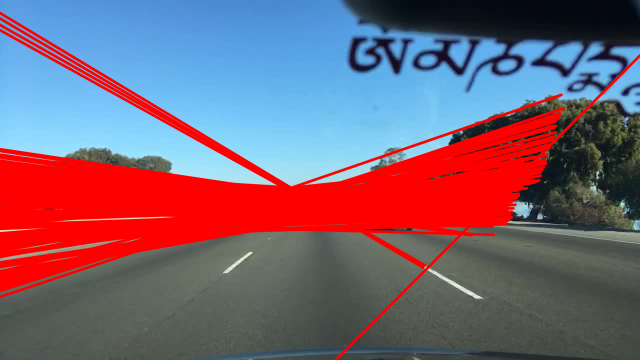
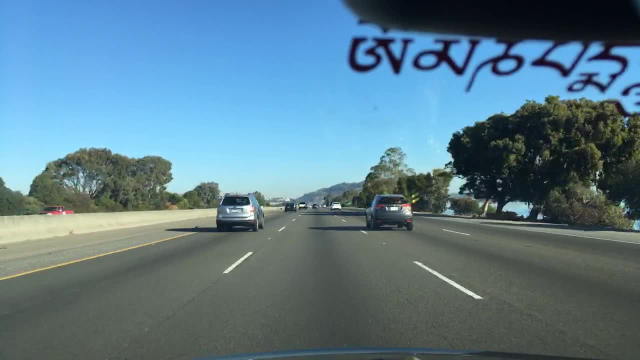
dividing files. +calculation part 1.

diff --git a/handleImg.cpp b/handleImg.cpp
@@ -14,7 +14,22 @@ void drawHoughLines(Mat img, vector<Vec2f> lines, int leftSide_Angle, int rightS
         // double temp1 = double(90 - leftSide_Angle) * to_radian;
         double temp1 = double(90 - leftSide_Angle) * toRadian();
         double temp2 = double(90 + rightSide_Angle) * toRadian();
+
+        double verticalPosY = img.size().height;
         if (theta < temp1 && theta > 0 || theta < CV_PI && theta > temp2)
+        // {
+        //     cout << "criteria angle 1 : " << temp1 * toDegree()
+        //          << "\t criteria angle 2 : " << temp2 * toDegree() << endl;
+
+        //     Point pt1, pt2;
+        //     double a = cos(theta), b = sin(theta);
+        //     double x0 = a * rho, y0 = b * rho;
+        //     pt1.x = cvRound(x0 + 1000 * (-b));
+        //     pt1.y = cvRound(y0 + 1000 * (a));
+        //     pt2.x = cvRound(x0 - 1000 * (-b));
+        //     pt2.y = cvRound(y0 - 1000 * (a));
+        //     line(img, pt1, pt2, Scalar(0, 0, 255), 3, LINE_AA);
+        // }
         {
             cout << "criteria angle 1 : " << temp1 * toDegree()
                  << "\t criteria angle 2 : " << temp2 * toDegree() << endl;
@@ -22,10 +37,23 @@ void drawHoughLines(Mat img, vector<Vec2f> lines, int leftSide_Angle, int rightS
             Point pt1, pt2;
             double a = cos(theta), b = sin(theta);
             double x0 = a * rho, y0 = b * rho;
-            pt1.x = cvRound(x0 + 1000 * (-b));
-            pt1.y = cvRound(y0 + 1000 * (a));
+            double len = 0;
+
+            // pt1.y = cvRound(y0 + 1000 * (a));
+            // find x position with fixed vertical position.
+            pt1.x = 0;
+            pt1.y = verticalPosY / 2;
+
+            if (y0 < pt1.y)
+            {
+                len = (pt1.y - b) / a;
+                pt1.x = cvRound(x0 + len * (-a));
+            }
+
             pt2.x = cvRound(x0 - 1000 * (-b));
             pt2.y = cvRound(y0 - 1000 * (a));
+            // pt2.x = 500;
+            // pt2.y = 500;
             line(img, pt1, pt2, Scalar(0, 0, 255), 3, LINE_AA);
         }
     }

diff --git a/calculation.cpp b/calculation.cpp
@@ -1,0 +1,41 @@
+#include "calculation.hpp"
+#include "gloabalVal.hpp"
+
+vector<lineElement> calcLineElement(vector<Vec2f> lines)
+{
+    // Description : Calculating slope, yItcp for 1st line equation...
+    vector<lineElement> lineElems(lines.size());
+
+    for (int i = 0; i < lines.size(); i++)
+    {
+        double rho = lines[i][0], theta = lines[i][1];
+
+        float y0 = rho * sin(theta), x0 = rho * cos(theta);
+        float slope = tan(CV_PI / 2 - theta);
+        float yItcp = y0 - slope * x0;
+        lineElems[i].slope = slope;
+        lineElems[i].yItcp = yItcp;
+    }
+
+    return lineElems;
+}
+
+vector<pointsElement> getLinePoints(vector<lineElement> lineElems, Mat img, double topPosY)
+{
+    /*
+     Description : Calculating and getting the Points for drawing on Img.
+     One top point and bottom one point are set for drawing the line.
+
+     Input      : lineElems     ([i][slope], [i][yItcp]),
+                  img           (for calculation width and height of img.)
+                  topPosY       (0~1.0, height ratio for pixel position.)
+     Output     : two points    (topPoint: at fixed y pixel position, bottomPoint : bottom of img position)
+    */
+    vector<pointsElement> pntElems(lineElems.size());
+    // not yet...
+
+    // pntElems[0].topPt;
+    // pntElems[0].bottomPt;
+
+    return pntElems;
+}

diff --git a/main.cpp b/main.cpp
@@ -3,6 +3,7 @@
 #include "gloabalVal.hpp"
 #include "CV_header.hpp"
 #include "handleImg.hpp"
+#include "calculation.hpp"
 
 using namespace std;
 using namespace cv;
@@ -61,7 +62,14 @@ int main()
         theta_radian = theta_degree * toRadian();
 
         HoughLines(imgEdge, lines, rho_thres, theta_radian, ptr_votes_thres, 0, 0);
-        drawHoughLines(img, lines, leftSide_Angle, rightSide_Angle);
+        // 직선의 방정식을 작성.
+        vector<lineElement> lineEqElms;
+        vector<pointsElement> pntElms;
+
+        lineEqElms = calcLineElement(lines);
+        pntElms = getLinePoints(lineEqElms, img, 0.5);
+
+        // drawHoughLines(img, lines, leftSide_Angle, rightSide_Angle);
 
         resize(img, img, Size(), 0.5, 0.5);
         imshow("img", img);

diff --git a/calculation.hpp b/calculation.hpp
@@ -1,0 +1,14 @@
+#ifndef __CALC_HEADER__
+#define __CALC_HEADER__
+
+#include <vector>
+#include "gloabalVal.hpp"
+#include "CV_header.hpp"
+
+using namespace std;
+using namespace cv;
+
+vector<lineElement> calcLineElement(vector<Vec2f> lines);
+vector<pointsElement> getLinePoints(vector<lineElement> lineElems, Mat img, double topPosY);
+
+#endif

diff --git a/gloabalVal.hpp b/gloabalVal.hpp
@@ -1,4 +1,20 @@
 #ifndef __GLOBAL_VAR_HEADER__
 #define __GLOBAL_VAR_HEADER__
 
+#include "CV_header.hpp"
+
+using namespace cv;
+
+typedef struct lineEquationElment
+{
+    double slope;
+    double yItcp;
+} lineElement;
+
+typedef struct pointsFormLineElmes
+{
+    Point topPt;
+    Point bottomPt;
+} pointsElement;
+
 #endif
